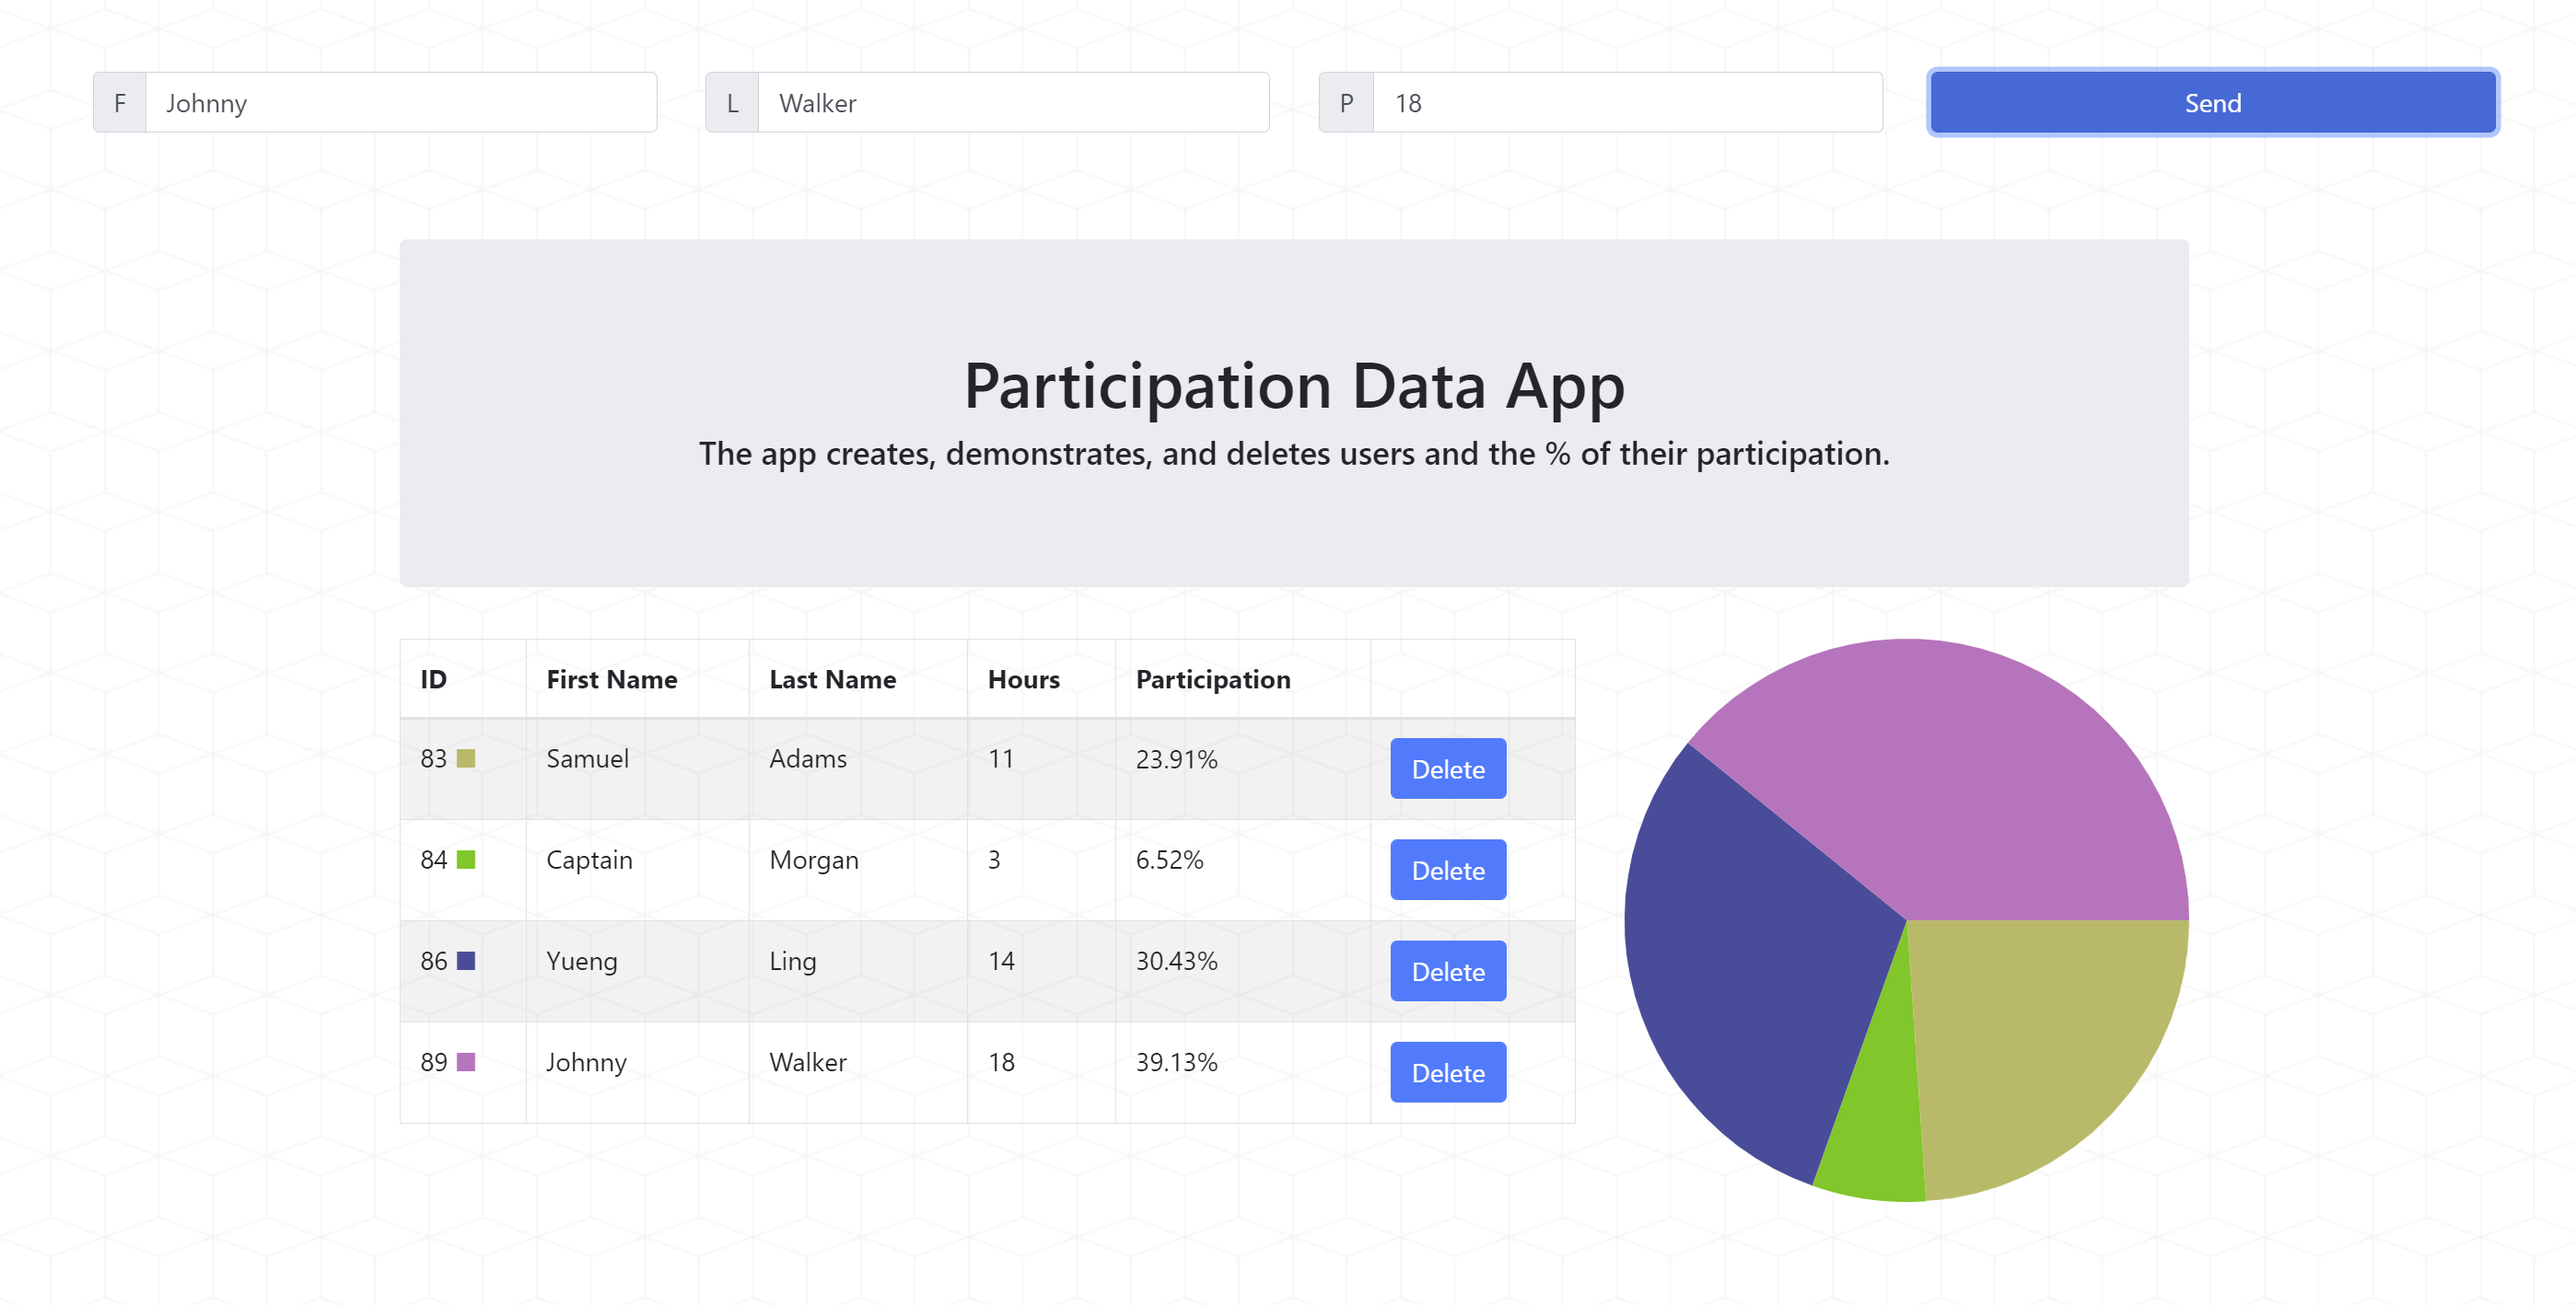
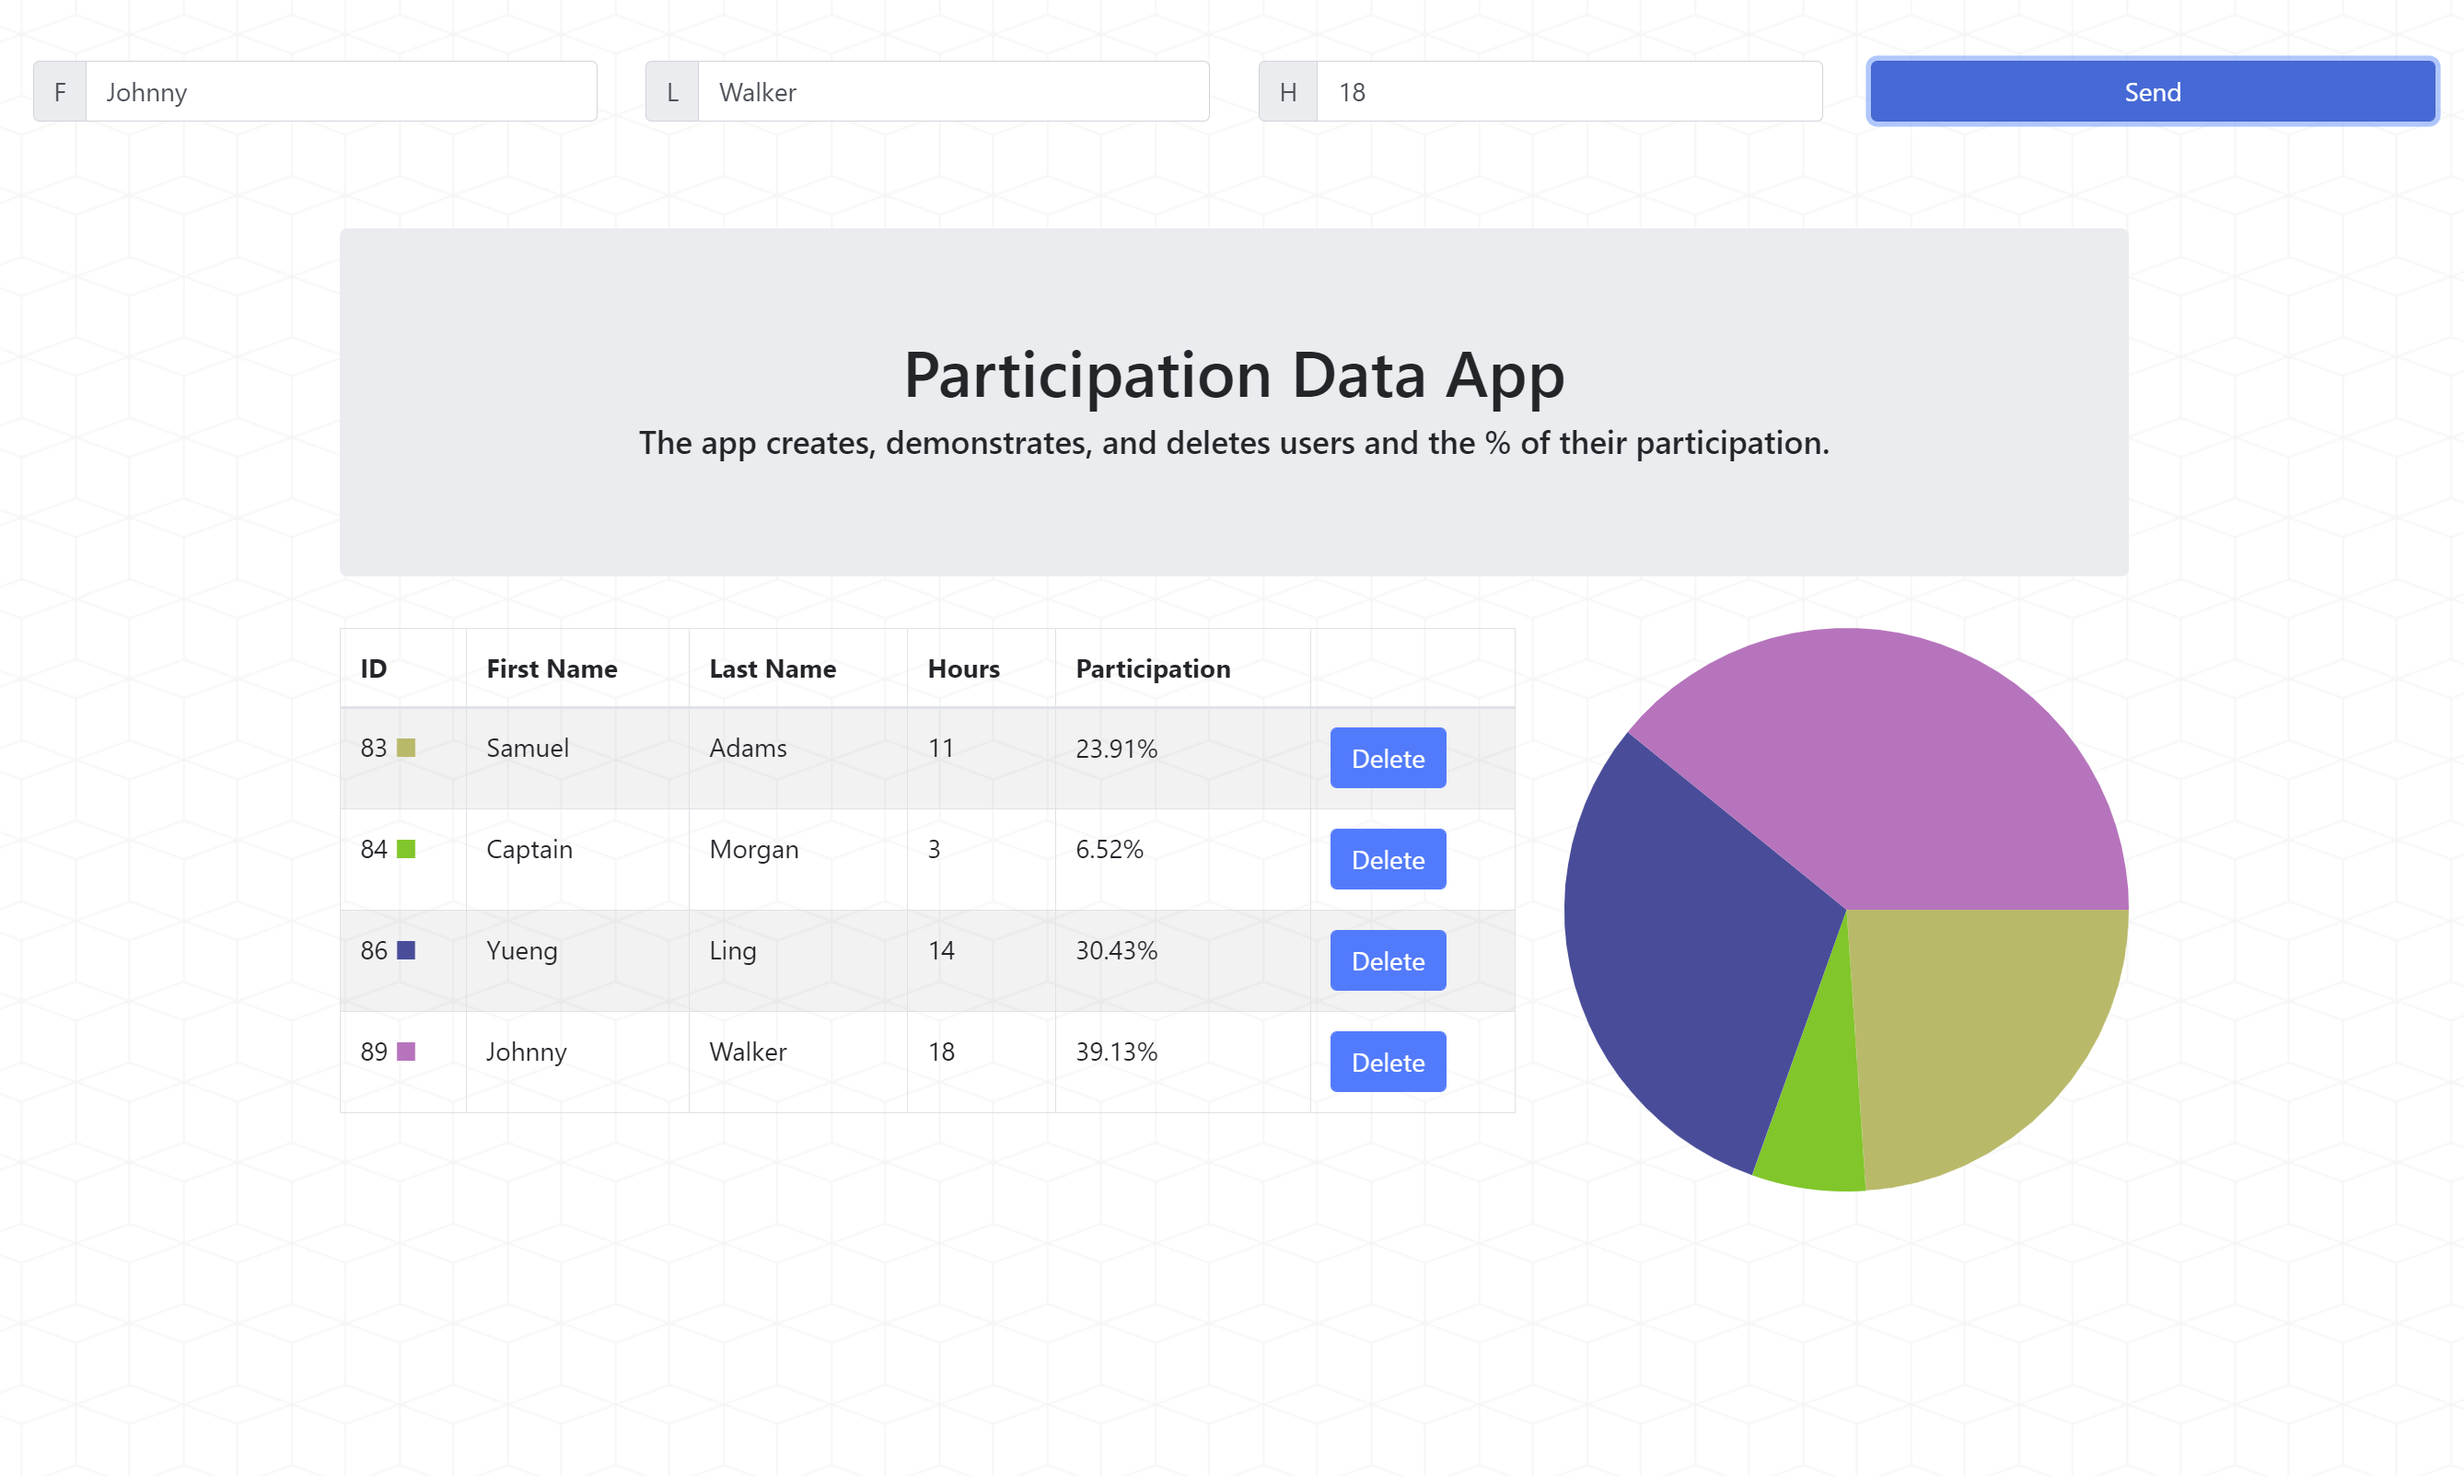
minor

diff --git a/src/components/Header.js b/src/components/Header.js
@@ -46,7 +46,7 @@ function Header(props){
         <Col md={3} sm={6}>
             <InputGroup className="mb-3">
                 <InputGroup.Prepend>
-                    <InputGroup.Text id="basic-addon1">P</InputGroup.Text>
+                    <InputGroup.Text id="basic-addon1">H</InputGroup.Text>
                 </InputGroup.Prepend>
                 <FormControl type={"number"} onChange={onHr}
                     placeholder="Percent"
